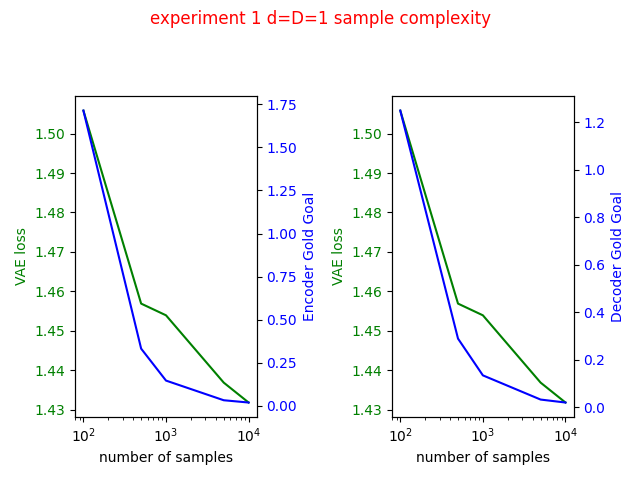
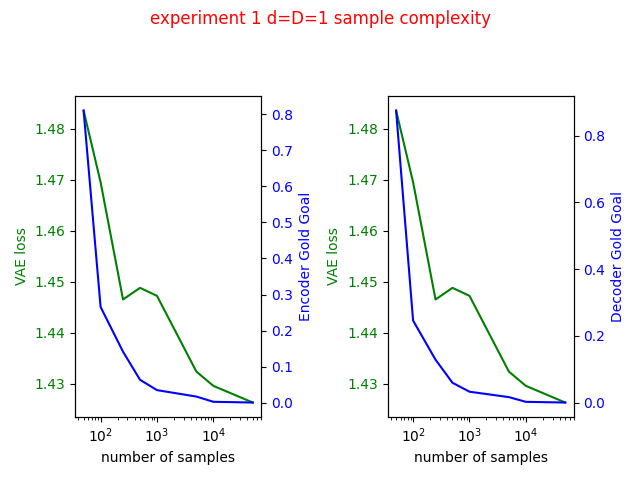
working code for D=d=1 with adjusted goal

diff --git a/vae.py b/vae.py
@@ -9,6 +9,8 @@ from torch import nn
 import matplotlib.pyplot as plt
 import scipy
 import matplotlib.pyplot as plt
+from scipy.linalg import svdvals
+
 
 
 criterion = nn.MSELoss()
@@ -41,12 +43,12 @@ class MyDataSet(torch.utils.data.Dataset):
         self.x = x_train_tensor
         
     def __getitem__(self, index):
-        # v = np.random.normal(0, 1, size=(1,d))
-        # noise = np.random.normal(0, 1, size=(1,self.D))
-        # x_train = np.matmul(v, self.A.T) + self.sigma * noise
-        # x_train_tensor = torch.from_numpy(x_train).float()
-        # return x_train_tensor
-        return self.x[index]
+        v = np.random.normal(0, 1, size=(1,d))
+        noise = np.random.normal(0, 1, size=(1,self.D))
+        x_train = np.matmul(v, self.A.T) + self.sigma * noise
+        x_train = x_train.reshape((self.D,))
+        x_train_tensor = torch.from_numpy(x_train).float()
+        return x_train_tensor
 
     def __len__(self):
         return len(self.x)
@@ -136,17 +138,17 @@ class VAE(torch.nn.Module):
 
         x_mat = torch.matmul(self.decoder.W.weight, self.encoder.M.weight) - torch.eye(self.D)
         x_vect = torch.matmul(x, x_mat)
-        norm_term = torch.mean(x_vect * x_vect)/(2*s*s)
-        # print (norm_term)
+        x_vect_sq = torch.mul(x_vect, x_vect)
+        x_vect_sq_sum = torch.sum(x_vect_sq, axis=-1)
+        norm_term = torch.mean(x_vect_sq_sum)/(2*s*s)
 
         W = self.decoder.W.weight
         W_T = torch.transpose(W, 0, 1)
-        trace_mat = torch.matmul(W,W_T)
-        trace_diag = torch.diagonal(trace_mat)
+        trace_mat = torch.matmul(W_T,W)
         S = torch.exp(self.encoder.log_S)
-        trace_term = torch.sum(trace_diag * S)/(2*s*s)
-        # print (log_term)
-        # print (trace_term)
+        trace_diag = torch.diagonal(trace_mat).reshape(S.shape)
+        diag_new = trace_diag * S
+        trace_term = torch.sum(diag_new)/(2*s*s)
 
         return log_term + norm_term + trace_term
 
@@ -154,7 +156,9 @@ class VAE(torch.nn.Module):
     def kl_loss_direct(self, x):
         S = torch.exp(self.encoder.log_S)
         mean = self.encoder(x)
-        mean_term = torch.mean(mean * mean)
+        mean_sq = torch.mul(mean,mean)
+        mean_sum = torch.sum(mean_sq, axis=-1)
+        mean_term = torch.mean(mean_sum)
         trace_term = torch.sum(S)
         log_term = torch.sum(self.encoder.log_S)
         return 0.5 * (trace_term + mean_term - log_term - self.d)
@@ -166,8 +170,9 @@ class VAE(torch.nn.Module):
         W = self.decoder.W.weight.detach().numpy()
         mat = A - W
         if adjusted:
-            if self.d==1 and self.D==1:
-                mat = np.abs(A) - np.abs(W)
+            mat = np.diag(svdvals(A) - svdvals(W))
+            # if self.d==1 and self.D==1:
+            #     mat = np.abs(A) - np.abs(W)
 
         z = np.random.normal(0, 1, size=(num_samples,self.d))
         diff_hat = np.matmul(z, mat.T)
@@ -186,8 +191,14 @@ class VAE(torch.nn.Module):
         W = self.decoder.W.weight.detach().numpy()
         mat = A - W
         if adjusted:
-            if self.d==1 and self.D==1:
-                mat = np.abs(A) - np.abs(W)
+            assert A.shape[0] == A.shape[1], "Only valid when D=d"
+            # print (A)
+            mat = np.diag(svdvals(A) - svdvals(W))
+            print ("SVD values of A", svdvals(A))
+            print ("SVD values for W", svdvals(W))
+            # print (mat)
+            # if self.d==1 and self.D==1:
+            #     mat = np.abs(A) - np.abs(W)
 
         diff_hat_sq = np.trace(np.matmul(mat,mat.T))
         norm_term = np.mean(diff_hat_sq)/(sigma*sigma)
@@ -211,9 +222,11 @@ class VAE(torch.nn.Module):
         trace_term = (1+(1/(sigma*sigma)))*np.sum(S)
         log_term = self.d * np.log(sigma*sigma) - self.d * np.log(1 + sigma*sigma) - np.sum(log_S)
         mat = P - M
-        if adjusted:
-            if self.d==1 and self.D==1:
-                mat = np.abs(P) - np.abs(M)
+        if adjusted:            
+            mat = np.diag(svdvals(P) - svdvals(M))
+
+            # if self.d==1 and self.D==1:
+            #     mat = np.abs(P) - np.abs(M)
         mat_x = np.matmul(x, mat.T)
         mat_x_sq = np.sum(mat_x * mat_x)/num_samples
         mat_term = (1+(1/(sigma*sigma))) * mat_x_sq
@@ -225,17 +238,23 @@ class VAE(torch.nn.Module):
         S = np.exp(log_S)
         P = A.T/(1+sigma*sigma)
         M = self.encoder.M.weight.detach().numpy()
+
         Q_inv = (1+(1/(sigma*sigma)))
         trace_term = Q_inv*np.sum(S)
-        log_term = self.d * np.log(sigma*sigma) - self.d * np.log(1 + sigma*sigma) - np.sum(log_S)
+        log_term = self.d * (np.log(sigma*sigma) - np.log(1 + sigma*sigma)) - np.sum(log_S)
         mat = P - M
         if adjusted:
-            if self.d==1 and self.D==1:
-                mat = np.abs(P) - np.abs(M)
+            assert A.shape[0] == A.shape[1], "Only valid when D=d"
+            mat = np.diag(svdvals(P) - svdvals(M))
+            print ("SVD vals of P", svdvals(P))
+            print ("SVD vals of M", svdvals(M))
+            # print (mat)
+            # if self.d==1 and self.D==1:
+            #     mat = np.abs(P) - np.abs(M)
         
         mat_mid = np.matmul(A,A.T) + sigma*sigma * np.eye(A.shape[0])
-        mat_cumm = Q_inv* np.matmul(np.matmul(mat,mat_mid),mat.T)
-        mat_term = np.trace(mat_cumm)
+        mat_cumm = np.matmul(np.matmul(mat,mat_mid),mat.T)
+        mat_term = Q_inv * np.trace(mat_cumm)
         return 0.5 * (trace_term + mat_term + log_term - d)
 
 
@@ -252,12 +271,12 @@ if __name__ == '__main__':
     if s_trainable:
         Non = 'Trainable'
 
-    D = 1
-    d = 1
+    D = 5
+    d = 5
     num_points = 10000
-    batch_size = 100
-    lr = 0.001
-    max_epochs = 150
+    batch_size = 1000
+    lr = 1
+    max_epochs = 1000
     dataset = MyDataSet(d, D, num_points)
     dataloader = torch.utils.data.DataLoader(dataset, batch_size=batch_size,
                                              shuffle=True, num_workers=2)
@@ -288,11 +307,11 @@ if __name__ == '__main__':
             optimizer.step()
             l = loss
             losses.append(l.data[0])
-        print (epoch, "A", dataset.A[0][0])
-        print (epoch, "M", vae.encoder.M.weight)
-        print (epoch, "W", vae.decoder.W.weight)
-        print (epoch, "Log S",vae.encoder.log_S)
-        print (epoch, "Log s",vae.decoder.log_s)
+        # print (epoch, "A", dataset.A[0][0])
+        # print (epoch, "M", vae.encoder.M.weight)
+        # print (epoch, "W", vae.decoder.W.weight)
+        print (epoch, "S", torch.exp(vae.encoder.log_S))
+        print (epoch, "s", torch.exp(vae.decoder.log_s))
         vae_loss = np.mean(losses)
         g_loss = vae.expected_g(dataset.A, dataset.sigma, adjusted)
         h_loss = vae.expected_h(dataset.A, dataset.sigma, adjusted)

diff --git a/plot_sample.py b/plot_sample.py
@@ -2,29 +2,33 @@ import os,sys
 import numpy as np 
 import matplotlib.pyplot as plt
 
+pre = '_2'
+quantile = 0.8
+goal = 'Adjusted'
+ns = [50, 100, 250, 500, 1000, 5000, 10000, 50000]
+vae_loss = np.load('vae{}.npy'.format(pre))
+g_loss = np.load('g{}.npy'.format(pre))
+h_loss = np.load('h{}.npy'.format(pre))
 
-vae_loss = np.load('vae.npy')
-g_loss = np.load('g.npy')
-h_loss = np.load('h.npy')
 
-ns = vae_loss.shape[0]
+# ns = vae_loss.shape[0]
 
 vae_losses = []
 g_losses = []
 h_losses = []
 
-ns = [100, 500, 1000, 5000, 10000]
+
+# ns = [100, 500, 1000, 5000, 10000]
 
 for idx,n in enumerate(ns):
-    g = np.quantile(g_loss[idx], 0.95)
-    h = np.quantile(h_loss[idx], 0.95)
-    vae = np.quantile(vae_loss[idx], 0.95)
+    g = np.quantile(g_loss[idx], quantile)
+    h = np.quantile(h_loss[idx], quantile)
+    vae = np.quantile(vae_loss[idx], quantile)
 
     vae_losses.append(vae)
     g_losses.append(g)
     h_losses.append(h)
 
-goal = 'Gold'
 fig, ax1 = plt.subplots(1,2)
 goals = ['Encoder {} Goal'.format(goal), 'Decoder {} Goal'.format(goal)]
 vals = [h_losses, g_losses]
@@ -64,10 +68,14 @@ for i in range(2):
 fig.tight_layout()  # otherwise the right y-label is slightly clipped
 fig.subplots_adjust(top=0.80)  # otherwise the right y-label is slightly clipped
 
+title = ''' Adjusted Goal Values for Sample Complexity Study
+            Case: D=d=1, N->finite, s^2 - Non-trainable
+            with probability at least {} the gold value is achieved for any n'''.format(quantile)
+
 # title ='''  {} Goal Values for Sample Complexity
 #             Case: D=d=1, N->Finite, s^2 - {}
 #             A = {} , sigma^2 = {} , s^2 = {} , P = {}, Q = {} '''.format(goal, Non, A_val, sigma_val, s_val, P_val, Q_val)
-title = 'experiment 1 d=D=1 sample complexity'
+# title = 'experiment 1 d=D=1 sample complexity'
 file_name = '_'.join(title.split()) + '.png'
 plt.suptitle(title, color='red', y=0.98)
 plt.savefig(file_name)
